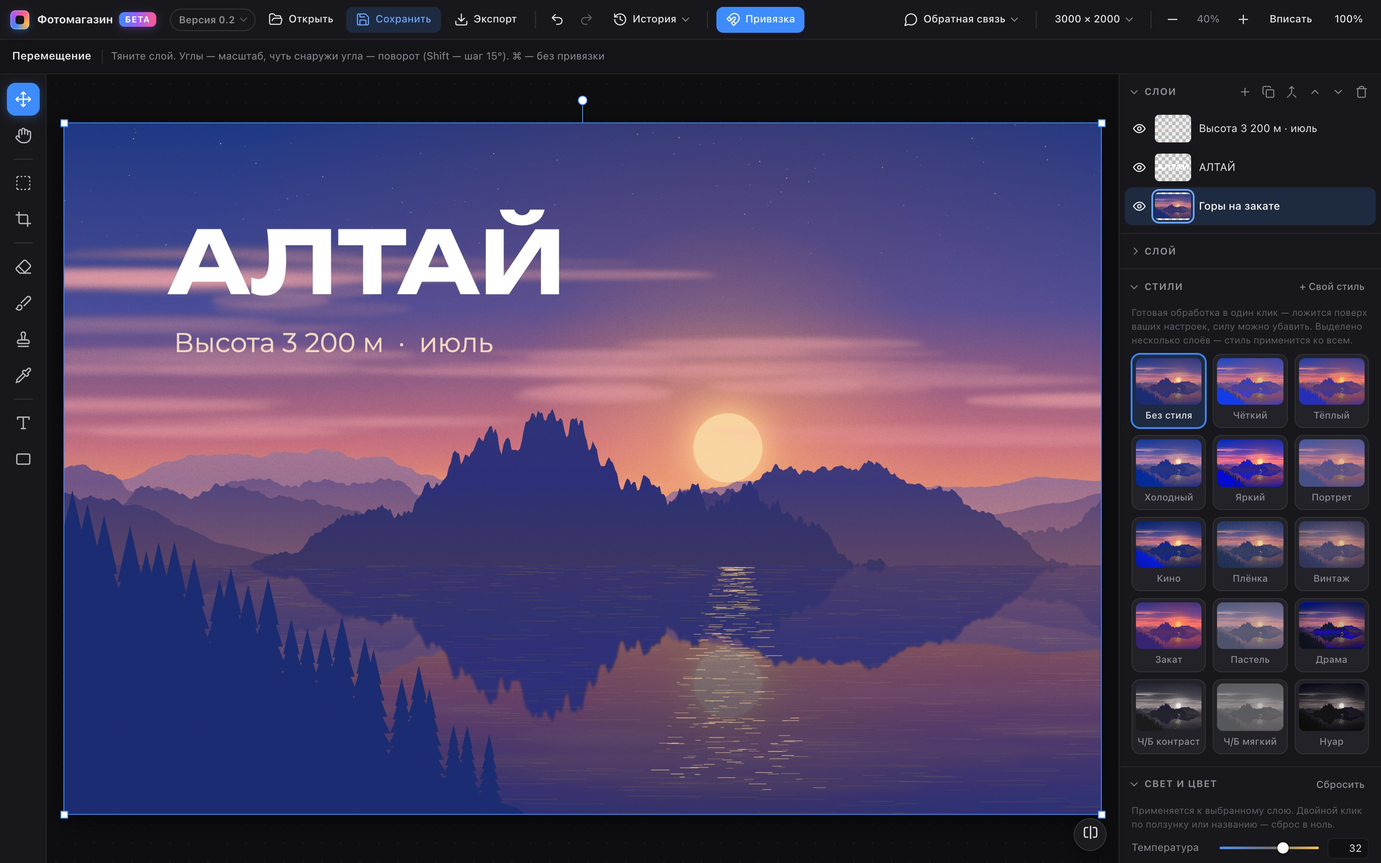
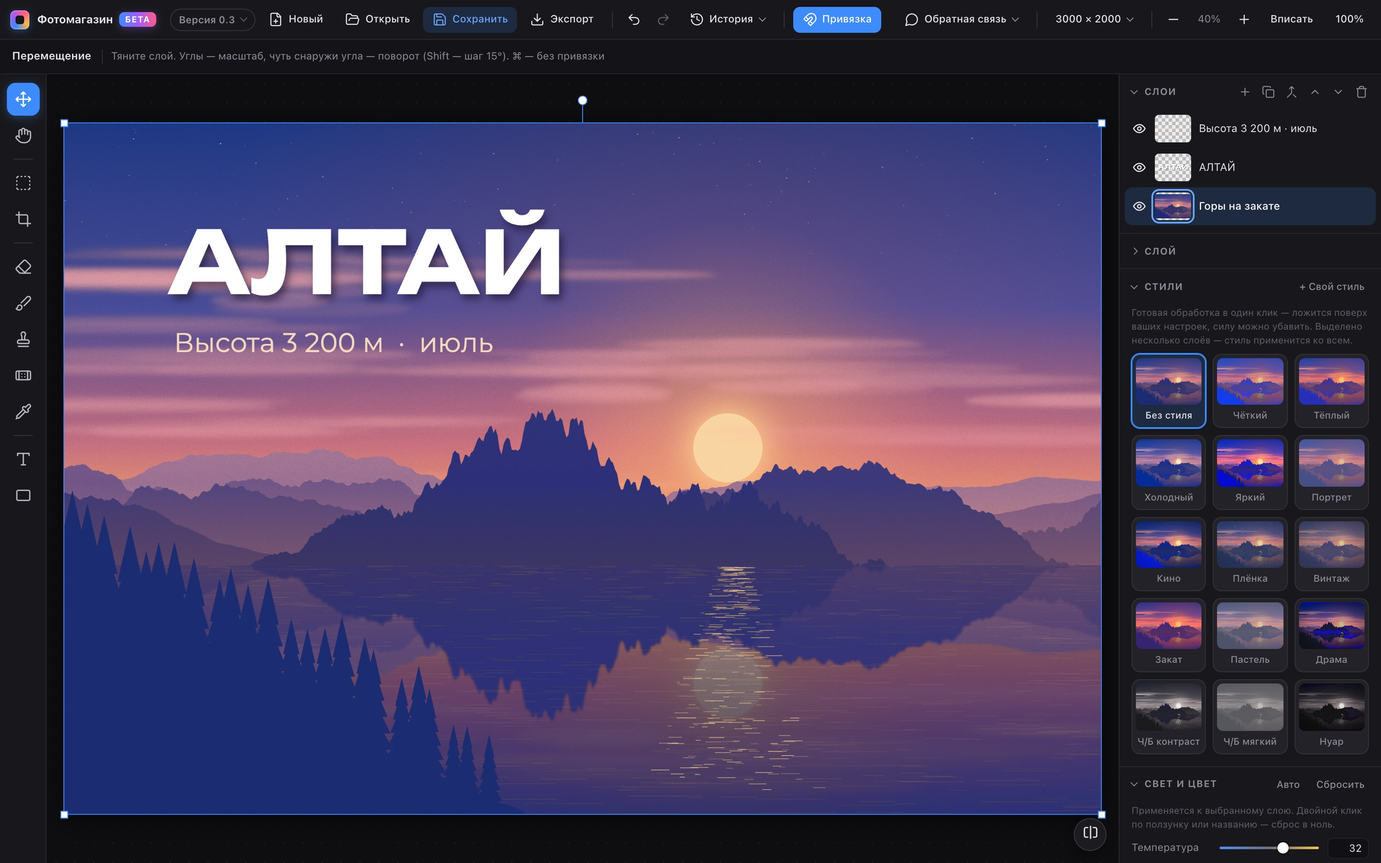
Сайт: версия 0.3 — восстанавливающая кисть, новый холст, «Авто», выпрямление, обводка текста; новые скриншоты

diff --git a/index.html b/index.html
@@ -4,13 +4,13 @@
 <meta charset="utf-8">
 <meta name="viewport" content="width=device-width, initial-scale=1">
 <title>Фотомагазин — фоторедактор со слоями прямо в браузере</title>
-<meta name="description" content="Бесплатный фоторедактор со слоями, стилями в один клик, кривыми, коррекцией света и цвета, кадрированием, выделением и текстом. Один файл, работает в браузере — без установки и регистрации.">
+<meta name="description" content="Бесплатный фоторедактор со слоями, ретушью, стилями в один клик, кривыми, коррекцией света и цвета, кадрированием, выделением и текстом. Один файл, работает в браузере — без установки и регистрации.">
 <meta name="theme-color" content="#000000">
 <meta property="og:type" content="website">
 <meta property="og:title" content="Фотомагазин — фоторедактор со слоями">
 <meta property="og:description" content="Стили в один клик, слои, кривые, свет и цвет, кадрирование и текст. Один файл, работает в браузере. Бесплатно.">
-<meta property="og:image" content="assets/hero.jpg?v=4">
-<link rel="icon" href="assets/icon.svg?v=4" type="image/svg+xml">
+<meta property="og:image" content="assets/hero.jpg?v=5">
+<link rel="icon" href="assets/icon.svg?v=5" type="image/svg+xml">
 <link rel="preconnect" href="https://fonts.googleapis.com">
 <link rel="preconnect" href="https://fonts.gstatic.com" crossorigin>
 <link rel="stylesheet" href="https://fonts.googleapis.com/css2?family=Inter:wght@400;500;600;700;800&family=Unbounded:wght@700&family=Playfair+Display:ital,wght@1,700&family=Caveat:wght@700&family=Lobster&display=swap">
@@ -23,7 +23,7 @@
   <div class="nav-in">
     <a class="brand" href="#top"><i class="logo"></i>Фотомагазин<span class="beta">Бета</span></a>
     <div class="links">
-      <a href="#styles">Стили</a><a href="#layers">Слои</a><a href="#raw">Свет и цвет</a><a href="#crop">Инструменты</a><a href="#together">Участвовать</a><a href="#faq">Вопросы</a>
+      <a href="#retouch">Ретушь</a><a href="#styles">Стили</a><a href="#layers">Слои</a><a href="#raw">Свет и цвет</a><a href="#crop">Инструменты</a><a href="#together">Участвовать</a><a href="#faq">Вопросы</a>
     </div>
     <a class="btn btn-sm" href="https://github.com/fotomagazin/fotomagazin/releases/latest/download/fotomagazin.zip">Скачать</a>
   </div>
@@ -32,7 +32,7 @@
 <!-- ========== первый экран ========== -->
 <header class="hero" id="top">
   <div class="wrap hero-text">
-    <a class="pill reveal" href="#styles"><span class="dot"></span>Новое в&nbsp;0.2: стили, кривые и&nbsp;эффекты<span class="arr">›</span></a>
+    <a class="pill reveal" href="#retouch"><span class="dot"></span>Новое в&nbsp;0.3: восстанавливающая кисть, «Авто» и&nbsp;шаблоны<span class="arr">›</span></a>
     <h1 class="reveal" style="--d:.08s"><span class="grad">Фотомагазин.</span></h1>
     <p class="lead reveal" style="--d:.16s">Настоящий фоторедактор со&nbsp;слоями.<br><span>Один файл. Работает в&nbsp;браузере. Бесплатно.</span></p>
     <div class="cta reveal" style="--d:.24s">
@@ -46,14 +46,14 @@
     <div class="glow" aria-hidden="true"></div>
     <div class="window" id="heroWin">
       <div class="bar"><i></i><i></i><i></i><span>Алтай.fotomag — Фотомагазин</span></div>
-      <img src="assets/hero.jpg?v=4" width="3200" height="2000" alt="Окно Фотомагазина: пейзаж с горами на закате, текстовые слои и панель «Свет и цвет»">
+      <img src="assets/hero.jpg?v=5" width="3200" height="2000" alt="Окно Фотомагазина: пейзаж с горами на закате, текстовые слои и панель «Свет и цвет»">
     </div>
   </div>
 </header>
 
 <!-- ========== манифест ========== -->
 <section class="statement wrap">
-  <p id="statement">Стили. Слои. Кривые. Свет и&nbsp;цвет. Кадрирование. Текст. Всё, что нужно для&nbsp;фотографии, — и&nbsp;ничего лишнего.</p>
+  <p id="statement">Ретушь. Стили. Слои. Кривые. Свет и&nbsp;цвет. Текст. Всё, что нужно для&nbsp;фотографии, — и&nbsp;ничего лишнего.</p>
 </section>
 
 <section class="stats wrap">
@@ -63,24 +63,42 @@
   <div class="stat reveal" style="--d:.24s"><b data-count="0" data-suffix=" ₽">0 ₽</b><span>стоит программа.<br>Навсегда.</span></div>
 </section>
 
+<!-- ========== восстанавливающая кисть (новое в 0.3) ========== -->
+<section class="feature center" id="retouch">
+  <div class="wrap">
+    <p class="eyebrow reveal">Новое в&nbsp;0.3 · Восстанавливающая кисть</p>
+    <h2 class="reveal" style="--d:.05s">Провода, пятна, мусор —<br>одним мазком.</h2>
+    <p class="body narrow reveal" style="--d:.1s">Закрасьте лишнее и&nbsp;отпустите кнопку мыши. Программа сама найдёт рядом подходящий участок и&nbsp;подгонит цвет по&nbsp;краям — шва не&nbsp;видно. А&nbsp;если хочется точнее, покажите, откуда брать.</p>
+    <div class="ba reveal" id="baHeal" style="--d:.15s">
+      <img src="assets/heal-after.jpg?v=5" width="2400" height="1600" alt="После: небо без проводов и пятен" loading="lazy">
+      <div class="ba-before"><img src="assets/heal-before.jpg?v=5" width="2400" height="1600" alt="До: провода и пятна на небе" loading="lazy"></div>
+      <div class="ba-line"><span class="knob"><svg viewBox="0 0 24 24"><path d="m9 6-6 6 6 6M15 6l6 6-6 6"/></svg></span></div>
+      <span class="ba-lbl l">До</span><span class="ba-lbl r">После</span>
+      <input class="ba-range" type="range" min="0" max="100" value="50" aria-label="Сравнить до и после">
+    </div>
+    <p class="hint reveal">Потяните, чтобы сравнить</p>
+    <div class="chips st-chips reveal"><span>Точечная — сама находит, чем заменить</span><span>С&nbsp;источником — Alt+клик</span><span>Клавиша J</span></div>
+  </div>
+</section>
+
 <!-- ========== стили (новое в 0.2) ========== -->
 <section class="feature center" id="styles">
   <div class="wrap">
-    <p class="eyebrow reveal">Новое в&nbsp;0.2 · Стили</p>
+    <p class="eyebrow reveal">Стили</p>
     <h2 class="reveal" style="--d:.05s">Один клик —<br>и&nbsp;фото готово.</h2>
     <p class="body narrow reveal" style="--d:.1s">Четырнадцать готовых обработок: от&nbsp;тёплого вечера до&nbsp;кино и&nbsp;плёнки. Миниатюры сразу показывают ваш снимок в&nbsp;каждом стиле, а&nbsp;силу можно убавить ползунком.</p>
     <div class="demo st-demo reveal" id="stDemo" style="--d:.15s">
-      <img class="on" src="assets/st-none.jpg?v=4" width="1800" height="1200" alt="Исходное фото: блёклый пейзаж с горами" loading="lazy">
-      <img src="assets/st-warm.jpg?v=4" width="1800" height="1200" alt="Стиль «Тёплый»" loading="lazy">
-      <img src="assets/st-cinema.jpg?v=4" width="1800" height="1200" alt="Стиль «Кино»" loading="lazy">
-      <img src="assets/st-film.jpg?v=4" width="1800" height="1200" alt="Стиль «Плёнка»" loading="lazy">
-      <img src="assets/st-sunset.jpg?v=4" width="1800" height="1200" alt="Стиль «Закат»" loading="lazy">
-      <img src="assets/st-bw.jpg?v=4" width="1800" height="1200" alt="Стиль «Ч/Б контраст»" loading="lazy">
+      <img class="on" src="assets/st-none.jpg?v=5" width="1800" height="1200" alt="Исходное фото: блёклый пейзаж с горами" loading="lazy">
+      <img src="assets/st-warm.jpg?v=5" width="1800" height="1200" alt="Стиль «Тёплый»" loading="lazy">
+      <img src="assets/st-cinema.jpg?v=5" width="1800" height="1200" alt="Стиль «Кино»" loading="lazy">
+      <img src="assets/st-film.jpg?v=5" width="1800" height="1200" alt="Стиль «Плёнка»" loading="lazy">
+      <img src="assets/st-sunset.jpg?v=5" width="1800" height="1200" alt="Стиль «Закат»" loading="lazy">
+      <img src="assets/st-bw.jpg?v=5" width="1800" height="1200" alt="Стиль «Ч/Б контраст»" loading="lazy">
       <span class="st-name" id="stName">Без стиля</span>
     </div>
     <div class="chips st-chips reveal" id="stChips"><button>Без стиля</button><button>Тёплый</button><button>Кино</button><button>Плёнка</button><button>Закат</button><button>Ч/Б контраст</button></div>
     <div class="duo">
-      <figure class="card reveal"><img src="assets/styles.jpg?v=4" width="606" height="1238" alt="Панель «Стили»: плитки с миниатюрами фото в каждом стиле и ползунок силы" loading="lazy">
+      <figure class="card reveal"><img src="assets/styles.jpg?v=5" width="606" height="1238" alt="Панель «Стили»: плитки с миниатюрами фото в каждом стиле и ползунок силы" loading="lazy">
         <figcaption><b>Ваше фото в&nbsp;каждом стиле.</b> Выделите несколько слоёв — стиль ляжет на&nbsp;все сразу.</figcaption></figure>
       <figure class="card reveal st-list" style="--d:.1s">
         <div class="names"><span>Чёткий</span><span>Тёплый</span><span>Холодный</span><span>Яркий</span><span>Портрет</span><span>Кино</span><span>Плёнка</span><span>Винтаж</span><span>Закат</span><span>Пастель</span><span>Драма</span><span>Ч/Б контраст</span><span>Ч/Б мягкий</span><span>Нуар</span><span class="mine">+ Свой стиль</span></div>
@@ -110,7 +128,7 @@
       </ul>
     </div>
     <div class="shot-stack reveal" style="--d:.1s">
-      <div class="card zoom"><img src="assets/layers.jpg?v=4" width="606" height="370" alt="Панель слоёв: текстовые слои и фото" loading="lazy"></div>
+      <div class="card zoom"><img src="assets/layers.jpg?v=5" width="606" height="370" alt="Панель слоёв: текстовые слои и фото" loading="lazy"></div>
       <div class="tag t1"><svg viewBox="0 0 24 24"><path d="M4 7V4h16v3M9 20h6M12 4v16"/></svg>Текст — всегда отдельный слой</div>
       <div class="tag t2"><svg viewBox="0 0 24 24"><circle cx="12" cy="12" r="10"/><path d="M12 2a10 10 0 0 0 0 20z" fill="currentColor"/></svg>Маски без потерь</div>
     </div>
@@ -122,19 +140,19 @@
   <div class="wrap">
     <p class="eyebrow reveal">Коррекция фото</p>
     <h2 class="reveal" style="--d:.05s">Свет и&nbsp;цвет —<br>под&nbsp;полным контролем.</h2>
-    <p class="body narrow reveal" style="--d:.1s">Температура, экспозиция, контраст, тени, светлые, красочность — восемь ползунков, чтобы довести снимок до&nbsp;ума. Плюс цветовые круги для&nbsp;теней, средних тонов и&nbsp;светов. Всё считается на&nbsp;видеокарте — мгновенно, даже на&nbsp;снимках в&nbsp;50&nbsp;мегапикселей.</p>
+    <p class="body narrow reveal" style="--d:.1s">Температура, экспозиция, контраст, тени, светлые, красочность — восемь ползунков, чтобы довести снимок до&nbsp;ума. Плюс цветовые круги для&nbsp;теней, средних тонов и&nbsp;светов. Не&nbsp;хочется крутить ползунки — нажмите «Авто»: программа сама подберёт яркость, контраст и&nbsp;цвет.</p>
     <div class="ba reveal" id="ba" style="--d:.15s">
-      <img src="assets/after.jpg?v=4" width="2400" height="1600" alt="После обработки: тёплый яркий закат" loading="lazy">
-      <div class="ba-before"><img src="assets/before.jpg?v=4" width="2400" height="1600" alt="До обработки: блёклый холодный снимок" loading="lazy"></div>
+      <img src="assets/after.jpg?v=5" width="2400" height="1600" alt="После обработки: тёплый яркий закат" loading="lazy">
+      <div class="ba-before"><img src="assets/before.jpg?v=5" width="2400" height="1600" alt="До обработки: блёклый холодный снимок" loading="lazy"></div>
       <div class="ba-line"><span class="knob"><svg viewBox="0 0 24 24"><path d="m9 6-6 6 6 6M15 6l6 6-6 6"/></svg></span></div>
       <span class="ba-lbl l">До</span><span class="ba-lbl r">После</span>
       <input class="ba-range" type="range" min="0" max="100" value="50" aria-label="Сравнить до и после">
     </div>
     <p class="hint reveal">Потяните, чтобы сравнить</p>
     <div class="duo">
-      <figure class="card reveal"><img src="assets/raw.jpg?v=4" width="606" height="688" alt="Ползунки панели «Свет и цвет»" loading="lazy">
+      <figure class="card reveal"><img src="assets/raw.jpg?v=5" width="606" height="688" alt="Ползунки панели «Свет и цвет»" loading="lazy">
         <figcaption><b>Восемь ползунков.</b> Двойной клик — сброс в&nbsp;ноль.</figcaption></figure>
-      <figure class="card reveal" style="--d:.1s"><img src="assets/wheels.jpg?v=4" width="606" height="482" alt="Цветовые круги: тени, средние, света" loading="lazy">
+      <figure class="card reveal" style="--d:.1s"><img src="assets/wheels.jpg?v=5" width="606" height="482" alt="Цветовые круги: тени, средние, света" loading="lazy">
         <figcaption><b>Цветовые круги.</b> Тёплые света и&nbsp;холодные тени — как в&nbsp;кино.</figcaption></figure>
     </div>
   </div>
@@ -144,7 +162,7 @@
 <section class="feature" id="curves">
   <div class="wrap grid2 rev">
     <div class="copy">
-      <p class="eyebrow reveal">Новое в&nbsp;0.2 · Кривые</p>
+      <p class="eyebrow reveal">Кривые</p>
       <h2 class="reveal" style="--d:.05s">Кривые.<br>Тон — до&nbsp;точки.</h2>
       <p class="body reveal" style="--d:.1s">Главный инструмент профессиональной обработки. Тяните точку вверх — светлее, вниз — темнее. Под&nbsp;кривой — гистограмма вашего снимка, чтобы видеть, где тени, а&nbsp;где света.</p>
       <ul class="checks reveal" style="--d:.15s">
@@ -154,7 +172,7 @@
       </ul>
     </div>
     <div class="shot-stack reveal" style="--d:.1s">
-      <div class="card zoom"><img src="assets/curves.jpg?v=4" width="606" height="868" alt="Панель «Кривые»: S-образная кривая поверх гистограммы, каналы RGB, R, G, B" loading="lazy"></div>
+      <div class="card zoom"><img src="assets/curves.jpg?v=5" width="606" height="868" alt="Панель «Кривые»: S-образная кривая поверх гистограммы, каналы RGB, R, G, B" loading="lazy"></div>
       <div class="tag t1"><svg viewBox="0 0 24 24"><path d="M3 3v18h18"/><path d="M7 16c3 0 4-8 7-8s3 4 6 4"/></svg>Гистограмма под кривой</div>
       <div class="tag t2"><svg viewBox="0 0 24 24"><circle cx="8" cy="9" r="4"/><circle cx="16" cy="9" r="4"/><circle cx="12" cy="16" r="4"/></svg>Каналы R · G · B</div>
     </div>
@@ -164,17 +182,17 @@
 <!-- ========== детали и эффекты (новое в 0.2) ========== -->
 <section class="feature center" id="fx">
   <div class="wrap">
-    <p class="eyebrow reveal">Новое в&nbsp;0.2 · Детали и&nbsp;эффекты</p>
+    <p class="eyebrow reveal">Детали и&nbsp;эффекты</p>
     <h2 class="reveal" style="--d:.05s">Резкость, размытие,<br>виньетка и&nbsp;зерно.</h2>
     <p class="body narrow reveal" style="--d:.1s">Последний штрих, который превращает снимок в&nbsp;кадр. Хотите размыть только фон — сделайте копию слоя, размойте её и&nbsp;проявите маской.</p>
     <div class="fx-grid">
-      <figure class="reveal"><div class="fx-img split"><img src="assets/fx-sp.jpg?v=4" width="900" height="600" alt="Резкость: слева без неё, справа с ней" loading="lazy"><span class="l">Без</span><span class="r">С&nbsp;резкостью</span></div>
+      <figure class="reveal"><div class="fx-img split"><img src="assets/fx-sp.jpg?v=5" width="900" height="600" alt="Резкость: слева без неё, справа с ней" loading="lazy"><span class="l">Без</span><span class="r">С&nbsp;резкостью</span></div>
         <figcaption><b>Резкость.</b> Детали чётче — без цветных ореолов.</figcaption></figure>
-      <figure class="reveal" style="--d:.08s"><div class="fx-img"><img src="assets/fx-bl.jpg?v=4" width="900" height="600" alt="Размытие всего снимка" loading="lazy"></div>
+      <figure class="reveal" style="--d:.08s"><div class="fx-img"><img src="assets/fx-bl.jpg?v=5" width="900" height="600" alt="Размытие всего снимка" loading="lazy"></div>
         <figcaption><b>Размытие.</b> Мягкий фон или&nbsp;эффект «не&nbsp;в&nbsp;фокусе».</figcaption></figure>
-      <figure class="reveal"><div class="fx-img"><img src="assets/fx-vg.jpg?v=4" width="900" height="600" alt="Виньетка: края снимка затемнены" loading="lazy"></div>
+      <figure class="reveal"><div class="fx-img"><img src="assets/fx-vg.jpg?v=5" width="900" height="600" alt="Виньетка: края снимка затемнены" loading="lazy"></div>
         <figcaption><b>Виньетка.</b> Края темнее или&nbsp;светлее — взгляд идёт в&nbsp;центр.</figcaption></figure>
-      <figure class="reveal" style="--d:.08s"><div class="fx-img"><img src="assets/fx-gr.jpg?v=4" width="900" height="600" alt="Зерно плёнки крупным планом" loading="lazy"></div>
+      <figure class="reveal" style="--d:.08s"><div class="fx-img"><img src="assets/fx-gr.jpg?v=5" width="900" height="600" alt="Зерно плёнки крупным планом" loading="lazy"></div>
         <figcaption><b>Зерно.</b> Фактура плёнки — живая, а&nbsp;не&nbsp;цифровой шум.</figcaption></figure>
     </div>
   </div>
@@ -186,11 +204,11 @@
     <div class="copy">
       <p class="eyebrow reveal">Кадрирование</p>
       <h2 class="reveal" style="--d:.05s">Кадр —<br>точно в&nbsp;край.</h2>
-      <p class="body reveal" style="--d:.1s">Рамка сама прилипает к&nbsp;краям и&nbsp;центру фото — ни&nbsp;одного лишнего пикселя. Готовые пропорции для&nbsp;соцсетей, видео и&nbsp;печати. Сетка «правило третей» подскажет композицию.</p>
+      <p class="body reveal" style="--d:.1s">Рамка сама прилипает к&nbsp;краям и&nbsp;центру фото — ни&nbsp;одного лишнего пикселя. Готовые пропорции для&nbsp;соцсетей, видео и&nbsp;печати. Завален горизонт? Ползунок «Наклон» или&nbsp;просто проведите линию вдоль горизонта — фото выровняется само.</p>
       <div class="chips reveal" style="--d:.15s" id="ratioChips"><span>4 : 5</span><span>1 : 1</span><span>16 : 9</span><span>3 : 2</span><span>9 : 16</span></div>
     </div>
     <div class="demo crop-demo reveal" id="cropDemo" style="--d:.1s">
-      <img src="assets/after.jpg?v=4" width="2400" height="1600" alt="" loading="lazy">
+      <img src="assets/after.jpg?v=5" width="2400" height="1600" alt="" loading="lazy">
       <div class="frame" id="cropFrame"><i class="h tl"></i><i class="h tr"></i><i class="h bl"></i><i class="h br"></i><span class="sz" id="cropLbl">4 : 5</span></div>
       <div class="snap-badge" id="snapBadge"><svg viewBox="0 0 24 24"><path d="m6 15-4-4 6.75-6.77a7.79 7.79 0 0 1 11 11L13 22l-4-4 6.39-6.36a2.14 2.14 0 0 0-3-3L6 15M5 8l4 4M12 15l4 4"/></svg>Прилипло к краям</div>
     </div>
@@ -211,7 +229,7 @@
       </ul>
     </div>
     <div class="demo sel-demo reveal" id="selDemo" style="--d:.1s">
-      <img src="assets/after.jpg?v=4" width="2400" height="1600" alt="" loading="lazy">
+      <img src="assets/after.jpg?v=5" width="2400" height="1600" alt="" loading="lazy">
       <svg viewBox="0 0 2400 1600" preserveAspectRatio="none" aria-hidden="true">
         <defs><mask id="selMask"><rect width="2400" height="1600" fill="#fff"/>
           <ellipse class="m-ell" cx="1536" cy="752" rx="190" ry="190" fill="#000"/>
@@ -231,12 +249,27 @@
   <div class="wrap">
     <p class="eyebrow reveal">Текст</p>
     <h2 class="reveal" style="--d:.05s">Печатайте прямо на&nbsp;фото.</h2>
-    <p class="body narrow reveal" style="--d:.1s">Кликните — и&nbsp;пишите. 14 шрифтов с&nbsp;кириллицей, жирный, курсив, выравнивание. Растягиваете рамку — растёт сам шрифт, поэтому буквы всегда остаются чёткими.</p>
+    <p class="body narrow reveal" style="--d:.1s">Кликните — и&nbsp;пишите. 14 шрифтов с&nbsp;кириллицей, жирный, курсив, выравнивание. Обводка и&nbsp;тень — и&nbsp;надпись читается на&nbsp;любом фоне. Растягиваете рамку — растёт сам шрифт, поэтому буквы всегда чёткие.</p>
     <div class="demo text-demo reveal" id="textDemo" style="--d:.15s">
-      <img src="assets/after.jpg?v=4" width="2400" height="1600" alt="" loading="lazy">
+      <img src="assets/after.jpg?v=5" width="2400" height="1600" alt="" loading="lazy">
       <div class="tx-box"><span class="tx" id="tx"></span><i class="caret"></i></div>
     </div>
-    <div class="fonts reveal" id="fontChips"><span>Unbounded</span><span>Playfair Display</span><span>Caveat</span><span>Lobster</span></div>
+    <div class="fonts reveal" id="fontChips"><span>Unbounded</span><span>Playfair Display</span><span>Caveat</span><span>Lobster</span><span>Обводка и&nbsp;тень</span></div>
+  </div>
+</section>
+
+<!-- ========== новый холст (новое в 0.3) ========== -->
+<section class="feature" id="canvas">
+  <div class="wrap grid2 rev">
+    <div class="copy">
+      <p class="eyebrow reveal">Новое в&nbsp;0.3 · Новый холст</p>
+      <h2 class="reveal" style="--d:.05s">Сторис, пост, обложка —<br>с&nbsp;чистого листа.</h2>
+      <p class="body reveal" style="--d:.1s">Нужна не&nbsp;обработка фото, а&nbsp;картинка с&nbsp;нуля? Кнопка «Новый» — и&nbsp;готовый холст нужного размера: белый, чёрный, прозрачный или&nbsp;любого цвета. Дальше перетащите фото, добавьте текст — и&nbsp;сохраните для&nbsp;соцсетей.</p>
+      <div class="chips reveal" style="--d:.15s"><span class="on">Сторис 1080&nbsp;×&nbsp;1920</span><span>Пост 4&nbsp;:&nbsp;5</span><span>Квадрат</span><span>Обложка YouTube</span><span>Full HD</span><span>4K</span><span>A4</span></div>
+    </div>
+    <div class="shot-stack reveal" style="--d:.1s">
+      <div class="card zoom"><img src="assets/new.jpg?v=5" width="1120" height="778" alt="Окно «Новый холст»: шаблоны сторис, пост, квадрат, обложка YouTube, Full HD, 4K, A4" loading="lazy"></div>
+    </div>
   </div>
 </section>
 
@@ -244,13 +277,13 @@
 <section class="feature" id="export">
   <div class="wrap grid2">
     <div class="copy">
-      <p class="eyebrow reveal">Новое в&nbsp;0.2 · Экспорт</p>
+      <p class="eyebrow reveal">Экспорт</p>
       <h2 class="reveal" style="--d:.05s">Сохраните<br>как&nbsp;нужно.</h2>
       <p class="body reveal" style="--d:.1s">JPG для&nbsp;фото, PNG с&nbsp;прозрачностью или&nbsp;лёгкий WebP для&nbsp;сайта. Готовые размеры для&nbsp;Instagram и&nbsp;Telegram — а&nbsp;вес файла видно ещё до&nbsp;сохранения.</p>
       <div class="chips reveal" style="--d:.15s"><span class="on">WebP</span><span>JPG</span><span>PNG</span><span>Instagram</span><span>Telegram</span><span>Full HD</span></div>
     </div>
     <div class="shot-stack reveal" style="--d:.1s">
-      <div class="card zoom"><img src="assets/export.jpg?v=4" width="960" height="740" alt="Окно «Сохранить картинку»: формат WebP, качество, размер для Instagram и вес файла" loading="lazy"></div>
+      <div class="card zoom"><img src="assets/export.jpg?v=5" width="960" height="740" alt="Окно «Сохранить картинку»: формат WebP, качество, размер для Instagram и вес файла" loading="lazy"></div>
       <div class="tag t1"><svg viewBox="0 0 24 24"><path d="M21 15v4a2 2 0 0 1-2 2H5a2 2 0 0 1-2-2v-4M7 10l5 5 5-5M12 15V3"/></svg>Вес файла — заранее</div>
     </div>
   </div>
@@ -262,15 +295,16 @@
     <p class="eyebrow reveal">Это настоящая программа</p>
     <h2 class="reveal" style="--d:.05s">Посмотрите в&nbsp;деле.</h2>
     <div class="seg reveal" style="--d:.1s" role="tablist">
-      <button class="on" data-tab="0" role="tab">Стили</button><button data-tab="1" role="tab">Кадрирование</button><button data-tab="2" role="tab">Выделение</button><button data-tab="3" role="tab">Текст</button>
+      <button class="on" data-tab="0" role="tab">Стили</button><button data-tab="1" role="tab">Кадрирование</button><button data-tab="2" role="tab">Выпрямление</button><button data-tab="3" role="tab">Выделение</button><button data-tab="4" role="tab">Текст</button>
     </div>
     <div class="window tabs reveal" style="--d:.15s">
       <div class="bar"><i></i><i></i><i></i><span>Алтай.fotomag — Фотомагазин</span></div>
       <div class="tab-stage">
-        <img class="on" src="assets/styles-win.jpg?v=4" width="2592" height="2000" alt="Стиль «Кино», справа — плитки стилей с миниатюрами" loading="lazy">
-        <img src="assets/crop.jpg?v=4" width="2592" height="2000" alt="Кадрирование с пропорцией 4:5" loading="lazy">
-        <img src="assets/select.jpg?v=4" width="2592" height="2000" alt="Выделение овалом вокруг солнца" loading="lazy">
-        <img src="assets/text.jpg?v=4" width="2592" height="2000" alt="Редактирование текста на фото" loading="lazy">
+        <img class="on" src="assets/styles-win.jpg?v=5" width="2592" height="2000" alt="Стиль «Кино», справа — плитки стилей с миниатюрами" loading="lazy">
+        <img src="assets/crop.jpg?v=5" width="2592" height="2000" alt="Кадрирование с пропорцией 4:5" loading="lazy">
+        <img src="assets/straight.jpg?v=5" width="2592" height="2000" alt="Выпрямление горизонта: наклон и частая сетка" loading="lazy">
+        <img src="assets/select.jpg?v=5" width="2592" height="2000" alt="Выделение овалом вокруг солнца" loading="lazy">
+        <img src="assets/text.jpg?v=5" width="2592" height="2000" alt="Редактирование текста на фото" loading="lazy">
       </div>
     </div>
     <p class="tab-cap reveal" id="tabCap">Стиль «Кино» в один клик. Справа — ваше фото в каждом из стилей.</p>
@@ -320,7 +354,7 @@
       <h3 class="reveal">Что дальше? Решаете вы.</h3>
       <p class="reveal" style="--d:.05s">Идеи, которые уже на&nbsp;очереди. Голосуйте в&nbsp;опросах нашего канала — самые нужные появятся первыми.</p>
       <ul class="road reveal" style="--d:.1s">
-        <li class="done">Режимы наложения слоёв <em>готово в&nbsp;0.2</em></li><li class="done">Кривые <em>готово в&nbsp;0.2</em></li><li>Уровни</li><li>Удаление фона одной кнопкой</li><li>Восстанавливающая кисть</li>
+        <li class="done">Режимы наложения слоёв <em>готово в&nbsp;0.2</em></li><li class="done">Кривые <em>готово в&nbsp;0.2</em></li><li>Уровни</li><li>Удаление фона одной кнопкой</li><li class="done">Восстанавливающая кисть <em>готово в&nbsp;0.3</em></li>
         <li>Нажим графического планшета</li><li>Градиенты и заливка</li><li>Фигуры и линии</li><li>Приложение для Mac и Windows</li>
         <li>Английская версия</li><li class="you">+ ваша идея</li>
       </ul>
@@ -362,7 +396,7 @@
   <div class="wrap narrow-w">
     <h2 class="reveal center-t">Вопросы и&nbsp;ответы.</h2>
     <details class="reveal"><summary>Почему «бета»?</summary><p>Фотомагазин только начинает свой путь. Всё, что описано на&nbsp;этой странице, уже работает, но&nbsp;программа ещё развивается: будут появляться новые инструменты, а&nbsp;иногда — встречаться ошибки. Ваши отзывы помогают решить, что делать в&nbsp;первую очередь.</p></details>
-    <details class="reveal"><summary>Что нового в&nbsp;версии 0.2?</summary><p>Стили — 14 готовых обработок в&nbsp;один клик и&nbsp;свои стили. Кривые с&nbsp;гистограммой. Резкость, размытие, виньетка и&nbsp;зерно. 16 режимов наложения слоёв. Окно «Экспорт» с&nbsp;форматами JPG, PNG и&nbsp;WebP, размерами для&nbsp;Instagram и&nbsp;Telegram и&nbsp;весом файла. «До / после» по&nbsp;клавише \ и&nbsp;управление тачпадом. Уже установленный Фотомагазин сам подскажет, что вышла новая версия.</p></details>
+    <details class="reveal"><summary>Что нового в&nbsp;последних версиях?</summary><p><b>0.3:</b> восстанавливающая кисть (убирает провода, пятна и&nbsp;мусор), кнопка «Авто», выпрямление горизонта, текст с&nbsp;обводкой и&nbsp;тенью, пустые холсты для&nbsp;сторис, постов и&nbsp;обложек; программа стала легче на&nbsp;больших фото и&nbsp;быстрее запускается. <b>0.2:</b> стили в&nbsp;один клик, кривые, резкость, размытие, виньетка и&nbsp;зерно, режимы наложения, окно «Экспорт», «до/после» по&nbsp;клавише \. Уже установленный Фотомагазин сам подскажет, что вышла новая версия.</p></details>
     <details class="reveal"><summary>Как предложить идею или&nbsp;сообщить об&nbsp;ошибке?</summary><p>Через <a class="inl" data-form="idea" href="#together">короткую форму</a> или нашего <a class="inl" data-tg="bot" href="#together">Telegram-бота</a> — сообщение придёт напрямую автору. Или прямо из&nbsp;программы: кнопка «Обратная связь» в&nbsp;верхней панели. А&nbsp;новости об&nbsp;обновлениях и&nbsp;опросы — в&nbsp;нашем <a class="inl" data-tg="channel" href="#together">Telegram-канале</a>.</p></details>
     <details class="reveal"><summary>Это правда бесплатно?</summary><p>Да. Без пробного периода, подписок и&nbsp;рекламы.</p></details>
     <details class="reveal"><summary>Нужно что-то устанавливать?</summary><p>Нет. Скачайте архив, распакуйте его двойным кликом и&nbsp;откройте fotomagazin.html — программа запустится в&nbsp;браузере, как обычная. Вся программа — это один этот файл, а&nbsp;рядом лежит короткая инструкция.</p></details>

diff --git a/script.js b/script.js
@@ -43,8 +43,9 @@ $$('.stat').forEach(s => s.addEventListener('reveal', () => {
     b.textContent = Math.round(to * e) + suf; if (k < 1) requestAnimationFrame(step); })(t0);
 }));
 
-// ---------- до / после ----------
-const ba = $('#ba'), baRange = $('.ba-range', ba);
+// ---------- до / после (свет и цвет, восстанавливающая кисть) ----------
+$$('.ba').forEach(ba => {
+const baRange = $('.ba-range', ba);
 let baTouched = false;
 const setBA = v => ba.style.setProperty('--x', v + '%');
 baRange.addEventListener('input', () => { baTouched = true; setBA(baRange.value); });
@@ -58,6 +59,7 @@ ba.addEventListener('reveal', () => {   // при первом показе шт
       const v = va + (vb - va) * e; setBA(v); baRange.value = v; }
     requestAnimationFrame(step);
   })(performance.now());
+});
 });
 
 // ---------- общий помощник: повторять, пока блок на экране ----------
@@ -101,8 +103,8 @@ if (!reduce) whileVisible(selDemo, async alive => { for (let i = 1; alive(); i++
 
 // ---------- текст: печатается разными шрифтами ----------
 const tx = $('#tx'), fontChips = $$('#fontChips span');
-const WORDS = [['Алтай', '"Unbounded"', 700, 'normal'], ['Байкал', '"Playfair Display"', 700, 'italic'], ['Карелия', '"Caveat"', 700, 'normal'], ['Камчатка', '"Lobster"', 400, 'normal']];
-function setFont(i) { const [, f, w, s] = WORDS[i]; Object.assign(tx.style, { fontFamily: f + ', sans-serif', fontWeight: w, fontStyle: s }); fontChips.forEach((c, k) => c.classList.toggle('on', k === i)); }
+const WORDS = [['Алтай', '"Unbounded"', 700, 'normal'], ['Байкал', '"Playfair Display"', 700, 'italic'], ['Карелия', '"Caveat"', 700, 'normal'], ['Камчатка', '"Lobster"', 400, 'normal'], ['Эльбрус', '"Unbounded"', 700, 'normal', true]];
+function setFont(i) { const [, f, w, s, fx] = WORDS[i]; Object.assign(tx.style, { fontFamily: f + ', sans-serif', fontWeight: w, fontStyle: s }); tx.classList.toggle('fx', !!fx); fontChips.forEach((c, k) => c.classList.toggle('on', k === i)); }
 setFont(0); tx.textContent = WORDS[0][0];
 if (!reduce) whileVisible($('#textDemo'), async alive => {
   for (let i = 0; alive(); i = (i + 1) % WORDS.length) {
@@ -126,6 +128,7 @@ if (!reduce) whileVisible($('#stDemo'), async alive => { for (let i = 1; alive()
 const tabBtns = $$('#tools .seg button'), tabImgs = $$('.tab-stage img'), tabCap = $('#tabCap');
 const CAPS = ['Стиль «Кино» в один клик. Справа — ваше фото в каждом из стилей.',
   'Пропорция 4 : 5, сетка третей и размер будущего кадра — прямо поверх фото.',
+  'Наклон −4°: фото поворачивается, а рамка сама обходит пустые углы. Частая сетка помогает поймать горизонт.',
   'Овальное выделение вокруг солнца. Внизу — что можно сделать с выделенным.',
   'Текст редактируется прямо на снимке, а шрифт и размер меняются на лету.'];
 let tabAuto = true;

diff --git a/style.css b/style.css
@@ -212,6 +212,8 @@ h2 { font-size: clamp(40px, 6.2vw, 80px); }
 .st-list .names .mine { border: 1.5px dashed rgba(41,151,255,.55); color: var(--blue); background: rgba(41,151,255,.06); font-weight: 600; }
 
 /* детали и эффекты */
+#baHeal { margin-top: 64px; }
+#tx.fx { color: #fff; -webkit-text-stroke: .9cqw #ff2f6d; paint-order: stroke fill; text-shadow: 0 .6cqw 1.4cqw rgba(20,10,40,.65); }
 .fx-grid { display: grid; grid-template-columns: 1fr 1fr; gap: 24px; max-width: 1100px; margin: 64px auto 0; text-align: left; }
 .fx-grid figure { margin: 0; }
 .fx-img { position: relative; border-radius: 22px; overflow: hidden; aspect-ratio: 3 / 2; border: 1px solid var(--line); box-shadow: 0 30px 80px rgba(0,0,0,.55); }
